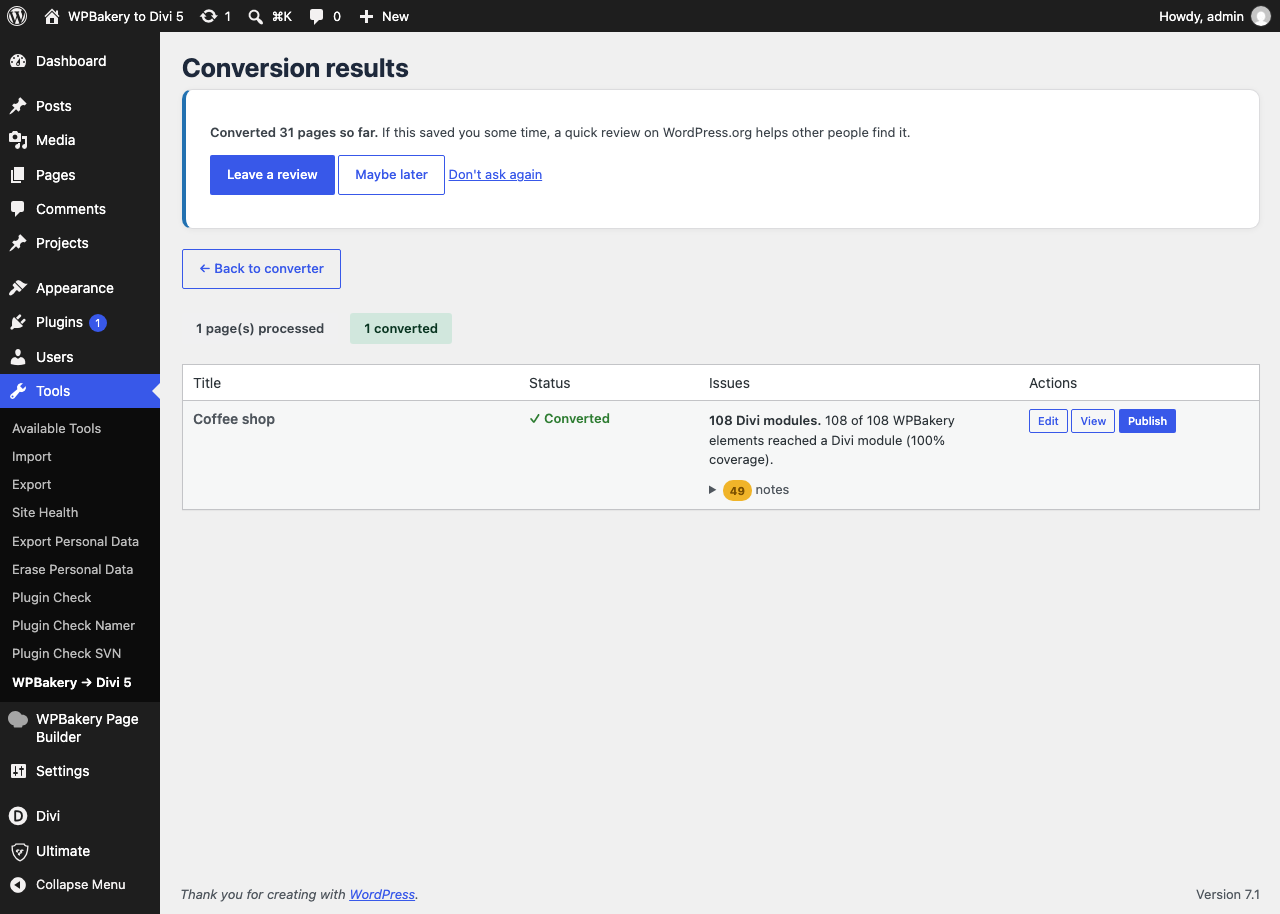
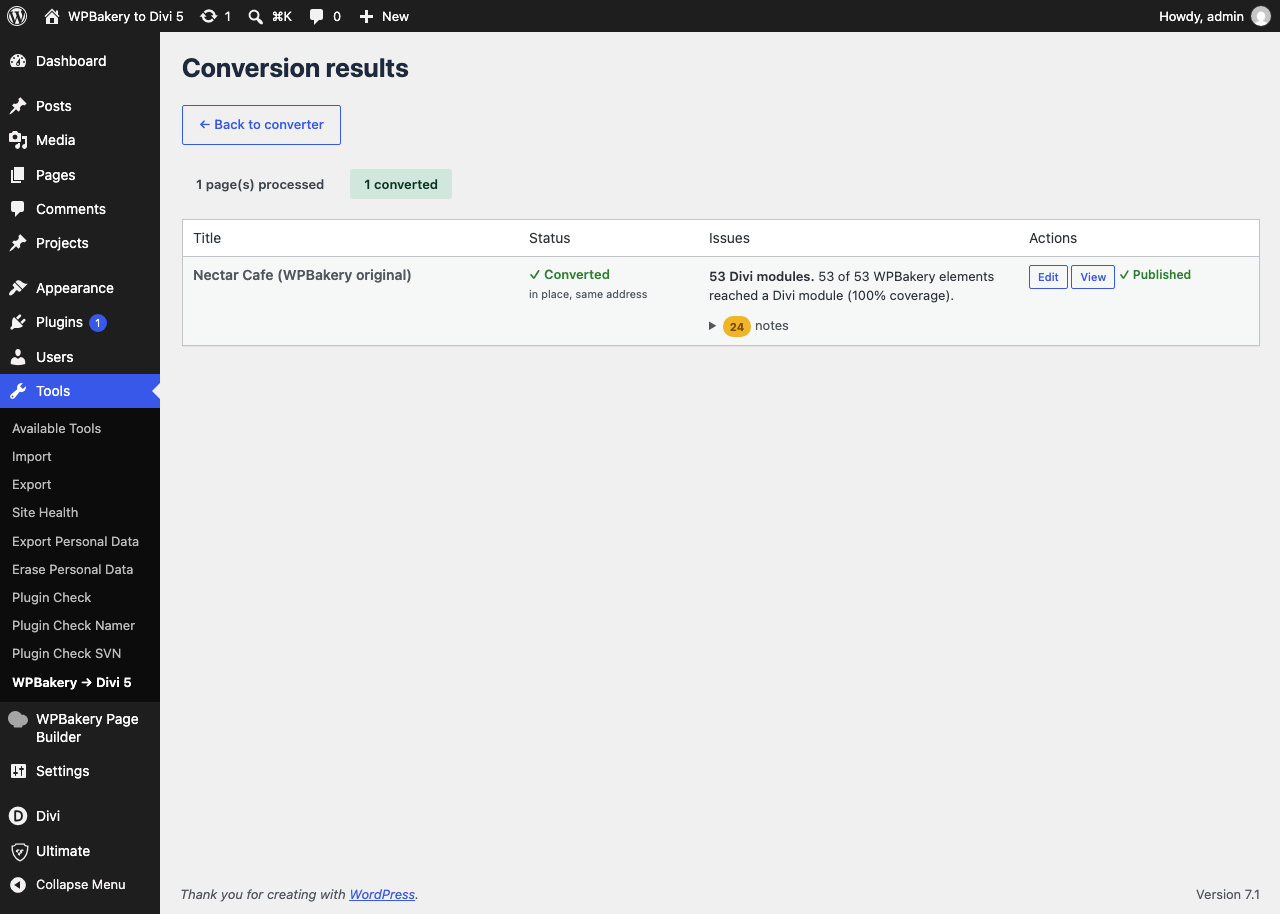
chore(wporg): submission assets and screens that match 1.1.0
The admin still told the reader their page was never modified, which 1.1.0 makes false, and the Recent conversions note still described Undo as trashing what a run created. Both now say what actually happens, and the source class's docblock with them.

Screenshots re-taken against 1.1.0: the report screen now shows the choice between converting the page and taking a new draft, and the results screen says whether a page was converted in place. Shot against a mid-sized layout so the whole report is legible rather than four thousand pixels of outline, with the run history cleared first and the review prompt reset so neither crowds the frame. The screenshot script now undoes its own run, since converting changes a real page.

Captions, asset notes and the expected-slug note updated; Plugin Check at 1.1.0 is 0 ERRORs with the three accepted trademark warnings.

diff --git a/scripts/render-assets.ts b/scripts/render-assets.ts
@@ -136,6 +136,17 @@ async function screenshots(page: Page): Promise<void> {
   await page.goto(converter);
   await page.waitForSelector('.wbdc-direct-table');
   await shoot(page, 'screenshot-1.png');
+
+  // Converting is in place by default, so this run changed a real page on the
+  // site. Undo it: the listing screenshot is already taken, and the site is
+  // left as it was found. The link asks for confirmation.
+  const undo = page.locator('a.button:has-text("Undo")').first();
+  if ((await undo.count()) > 0) {
+    page.once('dialog', (d) => d.accept());
+    await undo.click();
+    await page.waitForLoadState('domcontentloaded');
+    console.log('the run shown in the screenshots has been undone');
+  }
 }
 
 async function main(): Promise<void> {

diff --git a/plugin/jhmg-converter-for-wpbakery-to-divi/includes/admin/class-coverage-panel.php b/plugin/jhmg-converter-for-wpbakery-to-divi/includes/admin/class-coverage-panel.php
@@ -124,7 +124,7 @@ class CoveragePanel {
         return sprintf(
             '<div class="wbdc-card"><h2>%1$s</h2><p class="description">%2$s</p><table class="widefat striped"><thead><tr><th>%3$s</th><th>%4$s</th><th></th></tr></thead><tbody>%5$s</tbody></table></div>',
             esc_html__( 'Recent conversions', 'jhmg-converter-for-wpbakery-to-divi' ),
-            esc_html__( 'Undo moves the pages a run created to the trash. Your WPBakery originals are never touched. It skips only pages that are no longer linked to this plugin (already gone, or replaced) — editing a page does not exempt it from Undo.', 'jhmg-converter-for-wpbakery-to-divi' ),
+            esc_html__( 'Undo puts a converted page back the way it was, with its WPBakery content returned. A run that made new drafts instead has those drafts moved to the trash. Either way it skips pages that are no longer linked to this plugin (already gone, or replaced) — editing a page does not exempt it from Undo.', 'jhmg-converter-for-wpbakery-to-divi' ),
             esc_html__( 'When', 'jhmg-converter-for-wpbakery-to-divi' ),
             esc_html__( 'Pages', 'jhmg-converter-for-wpbakery-to-divi' ),
             $rows

diff --git a/plugin/jhmg-converter-for-wpbakery-to-divi/includes/admin/class-admin-page.php b/plugin/jhmg-converter-for-wpbakery-to-divi/includes/admin/class-admin-page.php
@@ -483,7 +483,7 @@ class AdminPage {
 
             <div class="wbdc-card wbdc-card--direct">
                 <h2><?php esc_html_e( 'Convert a page already on this site', 'jhmg-converter-for-wpbakery-to-divi' ); ?></h2>
-                <p class="description"><?php esc_html_e( 'Pick a WPBakery page, check what the conversion will produce, then convert it. Your original page is never modified.', 'jhmg-converter-for-wpbakery-to-divi' ); ?></p>
+                <p class="description"><?php esc_html_e( 'Pick a WPBakery page and check what the conversion will produce. Converting rewrites that page, so it keeps its address and everything linking to it, and Undo puts the WPBakery version back.', 'jhmg-converter-for-wpbakery-to-divi' ); ?></p>
                 <?php
                 // One query, not two: the picker renders its own empty state,
                 // and the content LIKE behind it is not cheap enough to run

diff --git a/plugin/jhmg-converter-for-wpbakery-to-divi/includes/conversion/class-installed-post-source.php b/plugin/jhmg-converter-for-wpbakery-to-divi/includes/conversion/class-installed-post-source.php
@@ -2,9 +2,11 @@
 /**
  * Conversion input read directly from posts on this site.
  *
- * Strictly read-only. The source post is never modified — a conversion always
- * creates a new post, so a failed or unwanted conversion can never cost the
- * user their WPBakery original.
+ * Strictly read-only: this class only reads. What is then done with the post —
+ * rewriting it in place, or writing a copy beside it — is the committer's
+ * decision. Either way the original shortcodes survive the run, on the post
+ * itself when it is converted in place, so an unwanted conversion never costs
+ * the user their WPBakery content.
  *
  * What is read is the post's `post_content` (the shortcode string) and the
  * three metas WPBakery writes beside it. Nothing is rendered and no HTML is

diff --git a/wporg-assets/README.md b/wporg-assets/README.md
@@ -49,21 +49,28 @@ admin, viewport 1280px wide, with the Pro add-on installed but **deactivated**:
 | WPBakery Page Builder (`js_composer`) | 9.0.1 |
 | Ultimate Addons for WPBakery (`Ultimate_VC_Addons`) | 3.19.3 |
 | Plugin Check | 2.1.0 |
-| This plugin | 1.0.0 |
+| This plugin | 1.1.0 |
 
 Procedure, so the shots can be reproduced:
 
-1. Seed a handful of pages from `fixtures/wpbakery-layouts/` (the Layouts for WPBakery corpus) with
-   `wp post create` + `scripts/docker/set-wpbakery-content.php`, one of them titled "Coffee shop"
-   (`17-coffee-shop.txt`).
-2. `wp option delete wbdc_import_history` first, so "Recent conversions" shows the run these
-   screenshots make rather than a pile of test runs.
-3. `npm run assets -- screenshots`. It logs in, dismisses the other plugins' admin notices, then
-   shoots 2 (the check report), 3 (the results screen) and 1 (the landing screen) in that order —
-   the landing screen only has a run to undo once a run has happened, which is what caption 1
-   promises. It prints the id of every page the run created.
-4. Trash the seeded pages and that created page (`wp post delete <id> --force`) and put
-   `wbdc_import_history` back, so the site is as it was.
+1. Seed pages from `fixtures/wpbakery-layouts/` (the Layouts for WPBakery corpus) with
+   `wp post create` + `scripts/docker/set-wpbakery-content.php`.
+2. Choose the page the report and results shots are taken of, and make sure it is on the picker's
+   first screen — the picker orders by modified date, so
+   `wp post update <id> --post_modified=<now> --post_modified_gmt=<now>` brings it to the top. A
+   mid-sized layout reads best: `13-nectar-cafe` (53 modules) fits its whole report on one screen,
+   where a 108-module page produces 4,000px of outline that says nothing at listing scale.
+3. `wp option delete wbdc_import_history` and `wp option update wbdc_conversions_total 0`, so
+   "Recent conversions" shows this run rather than a pile of test runs, and the review prompt does
+   not appear in frame.
+4. `WBDC_SHOT_PAGE='<page title>' npm run assets -- screenshots`. It logs in, dismisses the other
+   plugins' admin notices, then shoots 2 (the check report), 3 (the results screen) and 1 (the
+   landing screen) in that order — the landing screen only has a run to undo once a run has
+   happened, which is what caption 1 promises.
+5. Since 1.1.0 converting rewrites the page it was given, so the run changes a real page. The
+   script undoes its own run at the end (accepting the confirmation the Undo link asks for) and
+   says so, leaving the site as it found it. Check that it did: the page's content should be
+   shortcodes again and `_et_pb_use_divi_5` gone.
 
 ## Submission notes
 
@@ -89,6 +96,15 @@ the plugin name and slug so a user can find it. readme.txt says in its `== Descr
 plugin is not affiliated with or endorsed by WPBakery Page Builder, and the name is descriptive of
 what it does, which is what the directory asks for. If the review team asks for a different name,
 only the name and slug change; nothing in the code depends on them.
+
+### The slug the directory assigns
+
+The sibling Beaver Builder plugin was submitted as `jhmg-converter-for-beaver-builder-to-divi` and
+the directory assigned it the permalink `jhmg-converter-for-beaver-builder-to-divi-5`, after which
+the plugin folder, main file and text domain were renamed to match. Expect the same here: if the
+permalink comes back as `jhmg-converter-for-wpbakery-to-divi-5`, rename the folder, the main file
+and the text domain, and update the download link on divi5lab.com
+(`lib/site/free-downloads.ts`).
 
 `Tested up to` in readme.txt is `7.1`, read off this container with
 `docker compose exec -T wordpress wp core version --allow-root` at the time of the release, never
